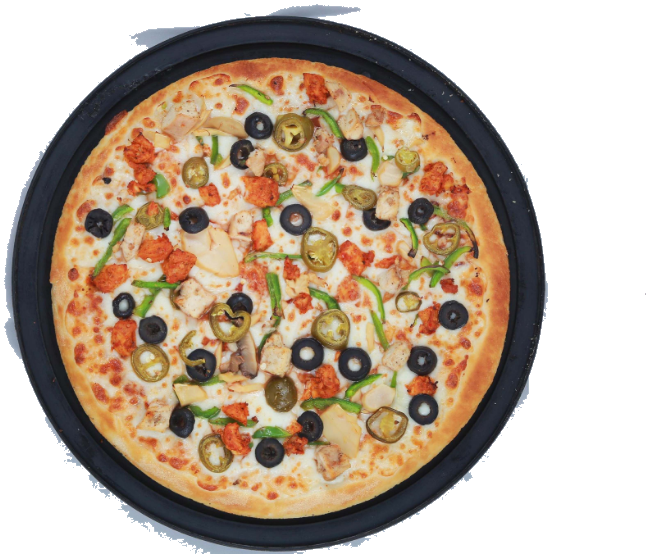
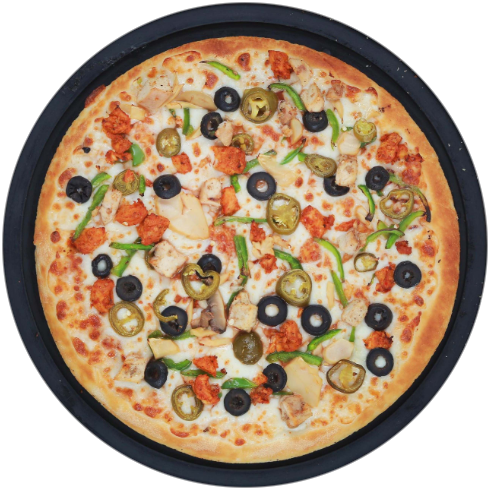
Food Station hero: clean pizza cut-out and visible wrap
Cut the pizza by detecting its dark circular pan and masking to that
circle, which removes the shadow-penumbra halo a brightness threshold
left behind. Reposition the wrap from a clipped off-canvas bottom spot to
the lower-left so all three cut-outs are fully visible.

https://claude.ai/code/session_01GKgabYAaF2Uh9aoYBQ3pt4

diff --git a/data/shops/food-station/index.html b/data/shops/food-station/index.html
@@ -28,9 +28,9 @@
   .hero{background:var(--red);color:var(--cream);border-bottom:5px solid var(--ink);position:relative;overflow:hidden;padding:64px 0 60px;text-align:center;}
   .hero .inner{position:relative;z-index:2;}
   .float{position:absolute;z-index:1;pointer-events:none;filter:drop-shadow(0 10px 14px rgba(0,0,0,.45));}
-  .float.pizza{width:clamp(150px,24vw,310px);top:-34px;left:-44px;transform:rotate(-13deg);}
-  .float.burger{width:clamp(116px,17vw,220px);top:18px;right:-30px;transform:rotate(11deg);}
-  .float.wrap{width:clamp(132px,19vw,250px);bottom:-30px;right:9%;transform:rotate(-7deg);}
+  .float.pizza{width:clamp(150px,23vw,300px);top:-40px;left:-46px;transform:rotate(-12deg);}
+  .float.burger{width:clamp(116px,17vw,218px);top:6px;right:-30px;transform:rotate(11deg);}
+  .float.wrap{width:clamp(140px,20vw,256px);bottom:6%;left:-26px;transform:rotate(-8deg);}
   .badge{display:inline-block;background:var(--mustard);color:var(--ink);border:3px solid var(--ink);border-radius:999px;
          padding:7px 22px;font-weight:800;box-shadow:4px 4px 0 var(--ink);margin-bottom:24px;transform:rotate(-2deg);}
   .hero h1{font-size:clamp(3rem,9vw,6rem);margin:0;color:var(--cream);text-shadow:4px 4px 0 var(--ink);}
